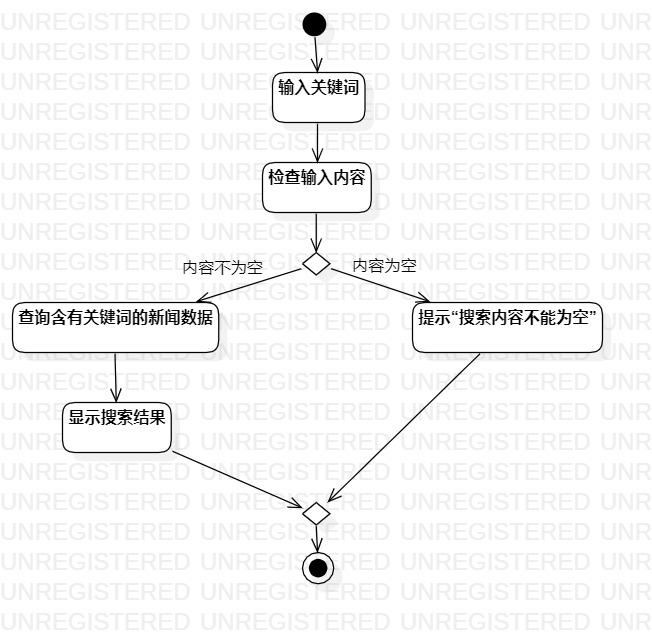
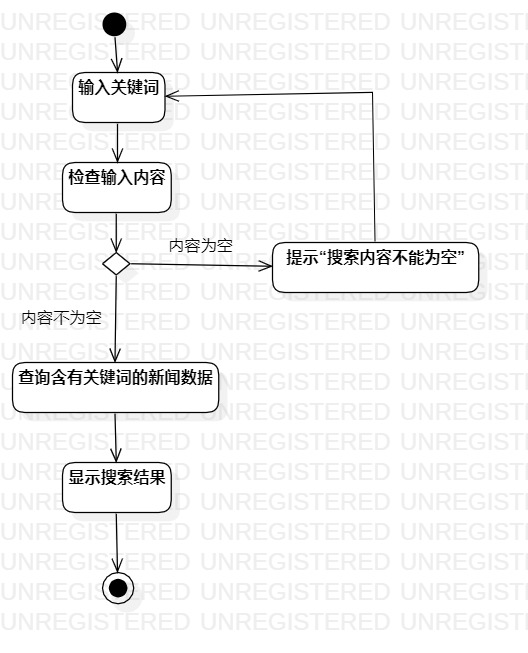
#3 #475 修改用例及活动图

diff --git a/students/1714080902533/lab2.md b/students/1714080902533/lab2.md
@@ -45,7 +45,7 @@ https://github.com/hzuapps/uml-modeling-2020/issues
 ~| 2. 系统检查输入内容 |
 ~| 3. 系统查询到含有关键词的新闻数据 |   
 ~| 4. 页面显示搜索结果 |
-扩展流程  | 2.1 系统检查发现输入内容为空，提示“搜索内容不能为空” |
+扩展流程  | 2.1 系统检查发现输入内容为空，提示“搜索内容不能为空”，返回流程1 |
 
 ### 表3：评论新闻用例规约  
 
